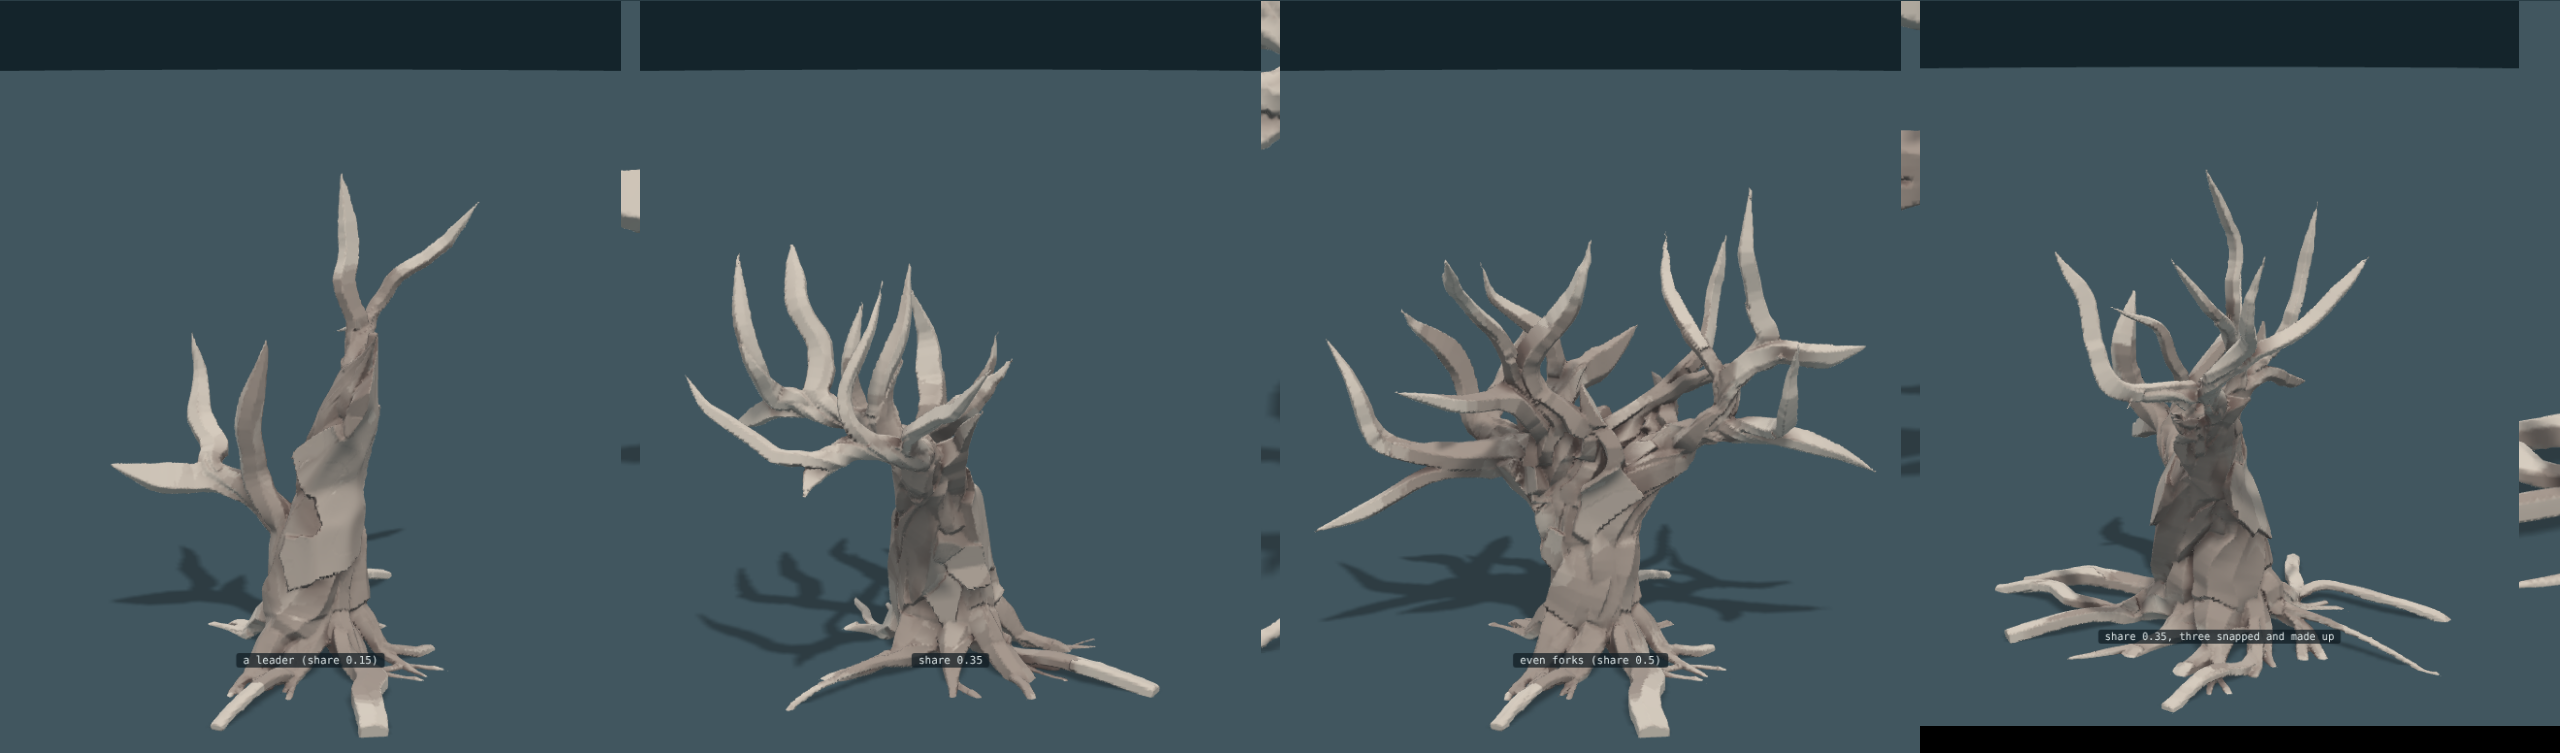
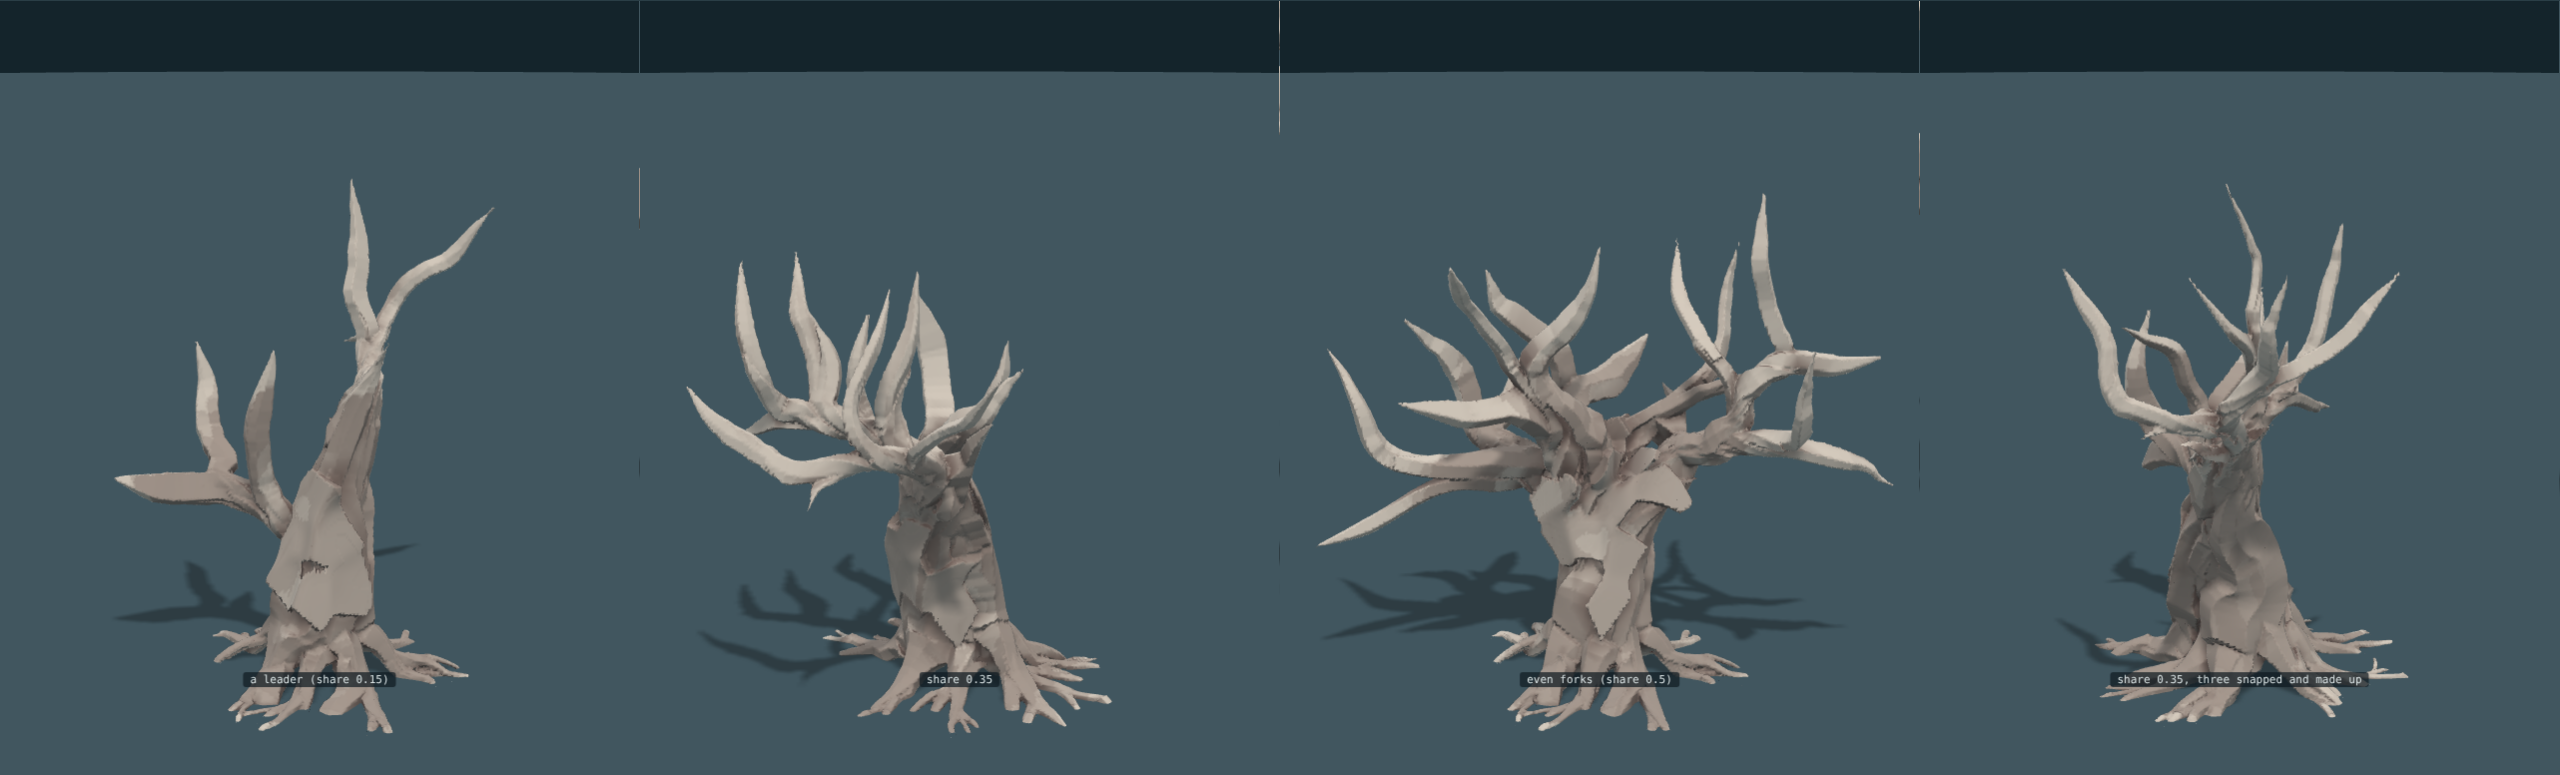
A root flares at the trunk, holds its weight between forks and steps down at each; aerial spans corner instead of sagging
Claude-Session: https://claude.ai/code/session_0192rgp75jGkttZXf7hEakip

diff --git a/trees.js b/trees.js
@@ -30,7 +30,7 @@
   function frames(P) { let N = null; return P.map((p, i) => { const T = unit([0, 1, 2].map((k) => P[Math.min(P.length - 1, i + 1)][k] - P[Math.max(0, i - 1)][k])); N = unit((N || [1, 0, 0.2]).map((v, k, A) => v - T[k] * dot(A, T))); return [T, N, cross(T, N)]; }); }
 
   function grow(recipe) {
-    const P = Object.assign({ strands: 8, fill: 0.75, uneven: 0.5, twist: 0.5, taut: 0.3, stiff: 0.05, hug: 0.15, bind: 0.004, roots: 0.6, wind: 1.1, mixed: false, lmax: 0, set: 0, swell: 1, feet: 0, lap: 0, ground: null, down: 0.6, crease: 0.5, snake: 1, air: 0.18, reach: 0.6, forks: 1, dive: 0.12, grip: 0.36, collar: 2.7, flare: 0.18, clear: 1, settle: 0, giving: 0.75, passes: 1500, ds: 0.035, seed: 1, trunk: [[0, 0.14, 0, 0.27], [0, 1.6, 0, 0.1]], limbs: [], orb: null }, recipe);
+    const P = Object.assign({ strands: 8, fill: 0.75, uneven: 0.5, twist: 0.5, taut: 0.3, stiff: 0.05, hug: 0.15, bind: 0.004, roots: 0.6, wind: 1.1, mixed: false, lmax: 0, set: 0, swell: 1, feet: 0, lap: 0, ground: null, down: 0.6, crease: 0.5, snake: 1, air: 0.18, reach: 0.6, forks: 1, dive: 0.12, grip: 0.62, collar: 1.6, flare: 0.07, waste: 0.25, clear: 1, settle: 0, giving: 0.75, passes: 1500, ds: 0.035, seed: 1, trunk: [[0, 0.14, 0, 0.27], [0, 1.6, 0, 0.1]], limbs: [], orb: null }, recipe);
     // The ground, if the tree is given one: any function of a place that is how far it is outside the ground (less than
     // nothing inside). Without one the ground is the level at height 0, as it always was. (A grown tree is always given one, level if nothing else, so that its roots are walked.)
     const G = P.ground, gradG = G ? (x, y, z) => { const e = 0.008; return unit([G(x + e, y, z) - G(x - e, y, z), G(x, y + e, z) - G(x, y - e, z), G(x, y, z + e) - G(x, y, z - e)]); } : null, rootPts = [];
@@ -57,9 +57,13 @@
     //   not go into the ground runs out to a point. A root that parted off another has no collar of its own.
     // Going down a face or through the air counts little toward its length, so a root that leaves the level it
     // began on runs on until it has ground under it again.
-    const walk = G ? (p0, away, rho0, len, dives, collar) => { const rx = [], rr = [], c0 = G(p0[0], p0[1], p0[2]), most = Math.round(len / ds) * 5, kmax = ds / (2.6 * Math.max(0.025, rho0)), wob = TAU * r(), wl = 0.25 + 0.3 * r();
+    const walk = G ? (p0, away, rho0, len, dives, collar) => { const rb2 = r, rx = [], rr = [], c0 = G(p0[0], p0[1], p0[2]), most = Math.round(len / ds) * 5, kmax = ds / (2.6 * Math.max(0.025, rho0)), wob = TAU * r(), wl = 0.25 + 0.3 * r();
       let pos = p0, h = away, prog = 0, curl = 0, air = 0, gone = 0;
-      const girth = (g, far) => rho0 * (collar ? P.grip * (1 + (P.collar - 1) * Math.pow(Math.max(0, 1 - far / P.flare), 1.6)) : 1) * (dives ? 1 : Math.pow(Math.min(1, (1 - g) / 0.22), 0.7) * 0.9 + 0.1);
+      // A root does not taper away along its length: it keeps its weight between forks and steps down at each,
+      // which is where nearly all of its thinning happens. Along a run it loses only `waste`. What it does at the
+      // trunk is not taper but flare: it leaves at the trunk's own girth and is down to its running girth within
+      // `flare`, under half a trunk's width. (A long smooth cone from trunk to tip is a carrot, not a root.)
+      const girth = (g, far) => rho0 * (collar ? P.grip * (1 + (P.collar - 1) * Math.pow(Math.max(0, 1 - far / P.flare), 1.6)) : 1) * (1 - P.waste * g) * (dives ? 1 : Math.pow(Math.min(1, (1 - g) / 0.22), 0.7) * 0.9 + 0.1);
       const room = (pr, own) => { if (Math.abs(pr[0]) > 0.97 || Math.abs(pr[2]) > 0.97) return 0; let near = 0.22; for (const q of rootPts) near = Math.min(near, H(pr[0] - q[0], pr[1] - q[1], pr[2] - q[2])); for (let e = 0; e < own; e++) near = Math.min(near, H(pr[0] - rx[e][0], pr[1] - rx[e][1], pr[2] - rx[e][2])); return near; };
       for (let m = 1; m <= most && prog < len; m++) { const g = Math.min(1, prog / len), rad = girth(g, gone), nn = gradG(pos[0], pos[1], pos[2]), hug = rad * (0.4 + 0.22 * Math.sin(wob + TAU * gone / wl)), want = c0 + (hug - c0) * sstep(0, P.dive, gone) - (dives ? 0.3 * sstep(0.72, 1, g) : 0);
         let tt = h.map((v, k) => v - nn[k] * dot(h, nn)); const dn = UP.map((v, k) => -(v - nn[k] * nn[1])), dl = H(dn[0], dn[1], dn[2]); if (H(tt[0], tt[1], tt[2]) < 0.2) tt = dl > 1e-6 ? dn : cross(nn, [1, 0, 0]); tt = unit(tt);
@@ -68,12 +72,24 @@
         for (const a of [-0.3, 0, 0.3]) { const c = tt.map((v, k) => v * Math.cos(a) + side[k] * Math.sin(a)), pr = pos.map((v, k) => v + c[k] * 0.07);
           const score = 0.7 * dot(c, out) + P.down * dot(c, dn) - P.crease * Math.min(1, Math.max(0, G(pr[0] + nn[0] * 0.07, pr[1] + nn[1] * 0.07, pr[2] + nn[2] * 0.07)) / 0.07) + 2.4 * room(pr, rx.length - 12) / 0.22 + (a === 0 ? 0.15 : 0) + 0.1 * r(); if (!best || score > best.score) best = { score, c }; }
         h = best.c; let nx = pos.map((v, k) => v + h[k] * ds);
-        const falls = G(nx[0], nx[1], nx[2]) > want + 0.6 * ds, may = g > 0.25 && g < 0.7 && air < 1 && falls && r() < P.air; let flew = false;
+        // it lets go only where the ground itself drops away ahead of it, and never while it is still coming down
+        const ahead = pos.map((v, k) => v + h[k] * 0.16), falls = G(ahead[0], ahead[1], ahead[2]) - G(pos[0], pos[1], pos[2]) > 0.1;
+        const may = gone > 1.5 * P.dive && g < 0.7 && air < 1 && falls && r() < P.air; let flew = false;
         if (may) for (const lift of [0.5, 0.2, 0.9]) { const d = unit(h.map((v, k) => v + nn[k] * lift)), pts = []; let ok = false;
           for (let t = ds; t < P.reach; t += ds) { const q = [pos[0] + d[0] * t, pos[1] + d[1] * t - 0.55 * t * t, pos[2] + d[2] * t], gq = G(q[0], q[1], q[2]); pts.push(q); if (t > 0.16 && gq <= rad * 0.6) { ok = true; break; } if ((t > 0.07 && gq < rad * 0.9 && t <= 0.16) || Math.abs(q[0]) > 1 || Math.abs(q[2]) > 1 || q[1] < -0.05) break; }
           if (!ok || pts.length < 5 || room(pts[pts.length - 1], rx.length - 12) < 0.07) continue;
-          for (const q of pts) { rx.push(q); rr.push(girth(Math.min(1, prog / len), gone)); prog += ds * 0.3; gone += ds; } air++; flew = true;
-          const e = pts.length - 1; h = unit(pts[e].map((v, k) => v - pts[e - 1][k])); pos = pts[e]; break; }
+          // The span is not the sagging curve that found the landing. Wood does not sag; it is stiff and it
+          // corners. So it goes over in two or three straight runs with a hard bend between them, kinked out
+          // past the curve so the corners stand proud: up and out, across, and down onto what it lands on.
+          const land = pts[pts.length - 1], up = nn, legs = 2 + (rb2() < 0.45 ? 1 : 0), node = [pos];
+          for (let j = 1; j < legs; j++) { const u = j / legs, base = pts[Math.min(pts.length - 1, Math.round(u * (pts.length - 1)))];
+            const bulge = (0.1 + 0.14 * rb2()) * H(land[0] - pos[0], land[1] - pos[1], land[2] - pos[2]) * Math.sin(PI * u), side = cross(unit([land[0] - pos[0], land[1] - pos[1], land[2] - pos[2]]), up);
+            node.push([0, 1, 2].map((c) => base[c] + up[c] * bulge + side[c] * bulge * 0.7 * (rb2() - 0.5))); }
+          node.push(land); const span = [];
+          for (let j = 1; j < node.length; j++) { const a = node[j - 1], b = node[j], L = H(b[0] - a[0], b[1] - a[1], b[2] - a[2]), n2 = Math.max(1, Math.round(L / ds));
+            for (let e = 1; e <= n2; e++) span.push([0, 1, 2].map((c) => a[c] + (b[c] - a[c]) * e / n2)); }
+          for (const q of span) { rx.push(q); rr.push(girth(Math.min(1, prog / len), gone)); prog += ds * 0.3; gone += ds; } air++; flew = true;
+          const e = span.length - 1; h = unit(span[e].map((v, k) => v - span[e - 1][k])); pos = span[e]; break; }
         if (flew) continue;
         for (let it = 0; it < 3; it++) { const gn = gradG(nx[0], nx[1], nx[2]), gv = G(nx[0], nx[1], nx[2]); nx = nx.map((v, k) => v + gn[k] * (want - gv)); }
         if (Math.abs(nx[0]) > 0.92 || Math.abs(nx[2]) > 0.92) break;   // a root stays on the ground it was given
@@ -164,7 +180,7 @@
     // side as a root of its own, walked like any other from there, and what goes on is that much the less. A root
     // that has parted off may part once more. So the foot has a few heavy roots, and the ground further out has
     // many fine ones, each traceable back to a heavy one: the way the tree divides above the ground, upside down.
-    if (G && P.forks) { const part = (pi, depth) => { const par = S[pi], n = depth ? (r() < 0.35 * P.forks ? 1 : 0) : 1 + (r() < 0.45 * P.forks ? 1 : 0); let u = 0.1 + 0.18 * r();
+    if (G && P.forks) { const part = (pi, depth) => { const par = S[pi], n = depth > 1 ? (r() < 0.3 * P.forks ? 1 : 0) : depth ? 1 + (r() < 0.3 * P.forks ? 1 : 0) : 1 + (r() < 0.75 * P.forks ? 1 : 0); let u = 0.1 + 0.18 * r();
         for (let e = 0; e < n; e++, u += 0.2 + 0.18 * r()) { if (u > 0.75) break; const k = Math.round((1 - u) * par.root); if (k < 4 || k > par.root - 2) continue;
           const pos = [par.X[k * 3], par.X[k * 3 + 1], par.X[k * 3 + 2]], d = unit([par.X[(k - 2) * 3] - pos[0], par.X[(k - 2) * 3 + 1] - pos[1], par.X[(k - 2) * 3 + 2] - pos[2]]), nn = gradG(pos[0], pos[1], pos[2]), sd = cross(nn, d), a = (r() < 0.5 ? -1 : 1) * (0.4 + 0.4 * r());
           const dir = unit(d.map((v, c) => v * Math.cos(a) + sd[c] * Math.sin(a))), share = 0.34 + 0.24 * r(), rb = par.rho[k] * Math.sqrt(share);
@@ -172,7 +188,7 @@
           for (let j = 0; j < k; j++) par.rho[j] *= 1 + (Math.sqrt(1 - share) - 1) * sstep(k, k - 4, j);
           const pts = w.rx.slice().reverse().concat([pos]), K = pts.length, X = Float64Array.from(pts.flat()); for (const q of w.rx) rootPts.push(q);
           S.push({ X, goal: Float64Array.from(X), rho: Float64Array.from(w.rr.slice().reverse().concat([rb])), hold: Float64Array.from({ length: K }, (_, j) => (j < K * 0.45 ? 0.2 : 0)), root: K, K, limb: -1, limbAt: -1, a: par.a, b: par.b, fat: par.fat * Math.sqrt(share), bend: Math.min(par.bend, 0.055), give: 1, snapped: false, rootOf: pi, po: k });
-          if (!depth) part(S.length - 1, 1); } };
+          if (depth < 2) part(S.length - 1, depth + 1); } };
       const first = S.length; for (let i = 0; i < first; i++) if (S[i].root > 7 && S[i].stem === undefined) part(i, 0); }
     if (G) for (const s of S) { s.gc = new Float64Array(s.K); for (let k = 0; k < s.K; k++) s.gc[k] = G(s.goal[k * 3], s.goal[k * 3 + 1], s.goal[k * 3 + 2]); }   // how far off the ground each place on a strand was meant to be
     // Where a shoot snapped off (a limb given as a `stub`). Three ages of the same event:

diff --git a/LOG.md b/LOG.md
@@ -3199,3 +3199,57 @@ Wrong, or not there:
 - Where a root ends is still its own length running out, not anything
   about the ground it is in.
 - A few roots arc through the air in smooth even loops.
+
+## How a root tapers, and an arc that corners
+
+Said: the arcs through the air are wanted but must be angular; and the
+taper is horrible — you know what a tree looks like.
+
+**The taper.** What I had was a cone: the girth fell smoothly from the
+trunk's to a thin running girth and then a long thin tube ran out. That
+is a carrot. A root does not taper away along its length. It keeps its
+weight between forks and steps down at each one, and nearly all of its
+thinning happens at those steps. What it does at the trunk is not taper
+but flare.
+
+So, three things in place of one:
+- flare: it leaves at the trunk's own girth and is down to its running
+  girth within `flare` (0.07, under half a trunk's width).
+- run: it holds that girth, losing only `waste` (a quarter) over its
+  whole length.
+- fork: `grip` raised from 0.36 to 0.62, so there is weight to divide,
+  and roots now part to three levels instead of two. 8 roots at the foot
+  become 22 to 24.
+
+      girth from the trunk outward, one root
+      0.060 0.057 0.040 0.031 | 0.029 0.027 0.023 0.019 0.017 | 0.017 0.016 0.016 0.016 0.015
+      flare                     steps at forks                  run
+
+      roots crossing a ring, at most   0.23 to 0.29 of the trunk
+
+**The arc.** The span was the sagging curve that found the landing — a
+parabola, because that is what I used to probe for ground. Wood does not
+sag. The probe still finds where it lands, but the span is then laid as
+two or three straight runs with a hard bend between them, kinked out past
+the curve so the corners stand proud: up and out, across, and down onto
+what it lands on. The drawn pieces already end at a root's turns, so each
+leg is its own piece.
+
+Broke on the way: leaps began firing on level ground. The test for "the
+ground falls away" compared the root's height to the height it wanted,
+which is true of every root while it is still coming down — so roots
+arched into the air at the foot and the trees stood on spider legs. The
+test now compares the ground ahead with the ground underfoot, and no leap
+may begin until the root is down. On level ground nothing now rises more
+than 0.035 above the trunk's base.
+
+`sketch/page9.png`, `-foot`, `-from-above`; `sketch/page11.png`,
+`-other-side`, `-foot`. Withdrawn:
+`sketch/page9-foot-carrot-taper-withdrawn.png`. Page 7 unchanged.
+
+Wrong, or not there:
+- The roots radiate evenly: eight families spaced by angle round the
+  foot, so from above it is a starburst. Nothing clusters them.
+- Between forks a root is a smooth tube. The flat-faced pieces are there
+  but at that girth they hardly show.
+- A root ends where its length runs out, not for any reason in the ground.
